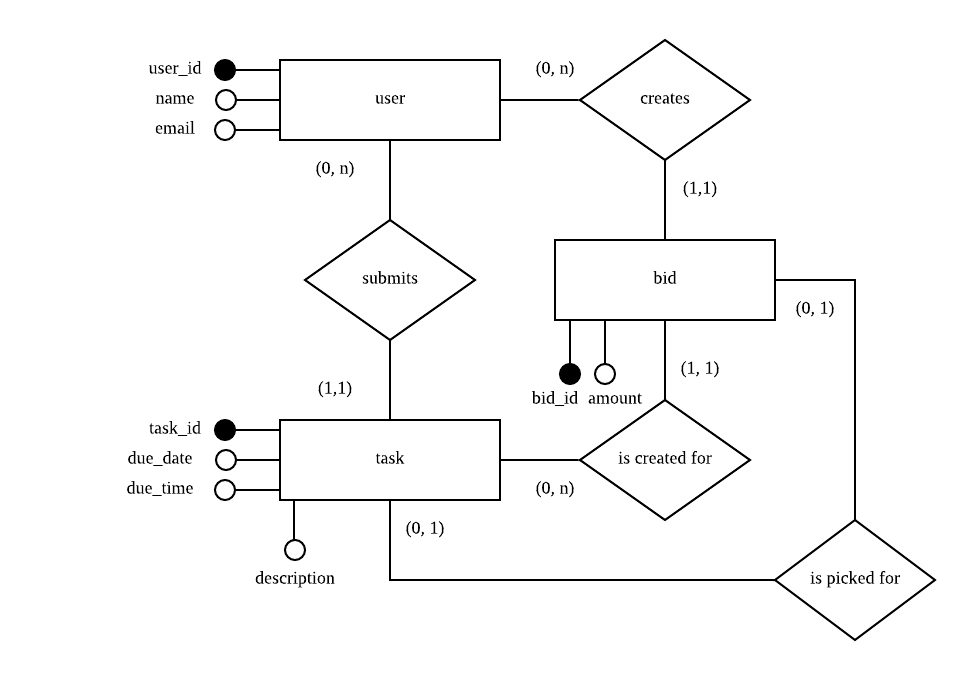
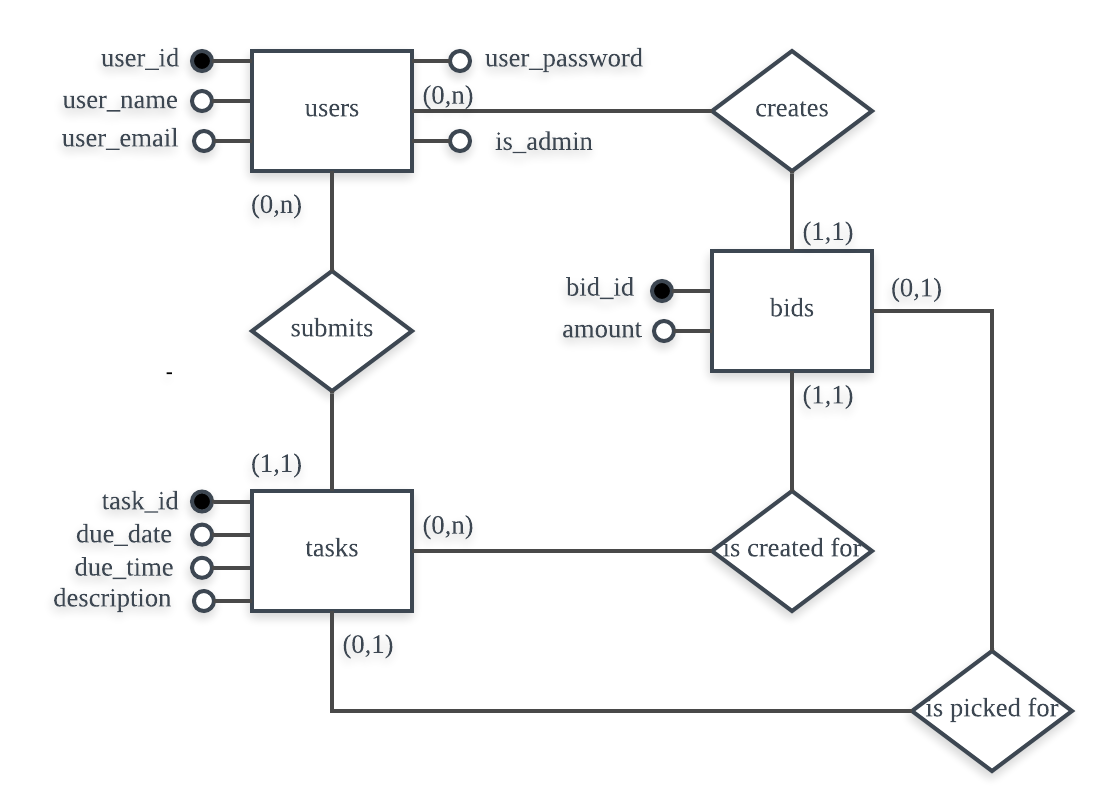
Update design report; Update ERD

diff --git a/DesignReport/DesignReport.md b/DesignReport/DesignReport.md
@@ -9,7 +9,8 @@ CREATE TABLE users (
 user_id SERIAL PRIMARY KEY,
 user_name VARCHAR(64) NOT NULL,
 user_password VARCHAR(64) NOT NULL,
-user_email VARCHAR(64) NOT NULL)
+user_email VARCHAR(64) NOT NULL,
+is_admin BOOLEAN NOT NULL DEFAULT FALSE,
 CHECK (user_email LIKE "%@%.%"),
 CHECK (user_name NOT LIKE "%[^A-Z0-9*]%" AND LEN(user_name)>=5),
 CHECK (user_password LIKE "%[0-9]%" AND user_password LIKE "%[A-Z]%" 
